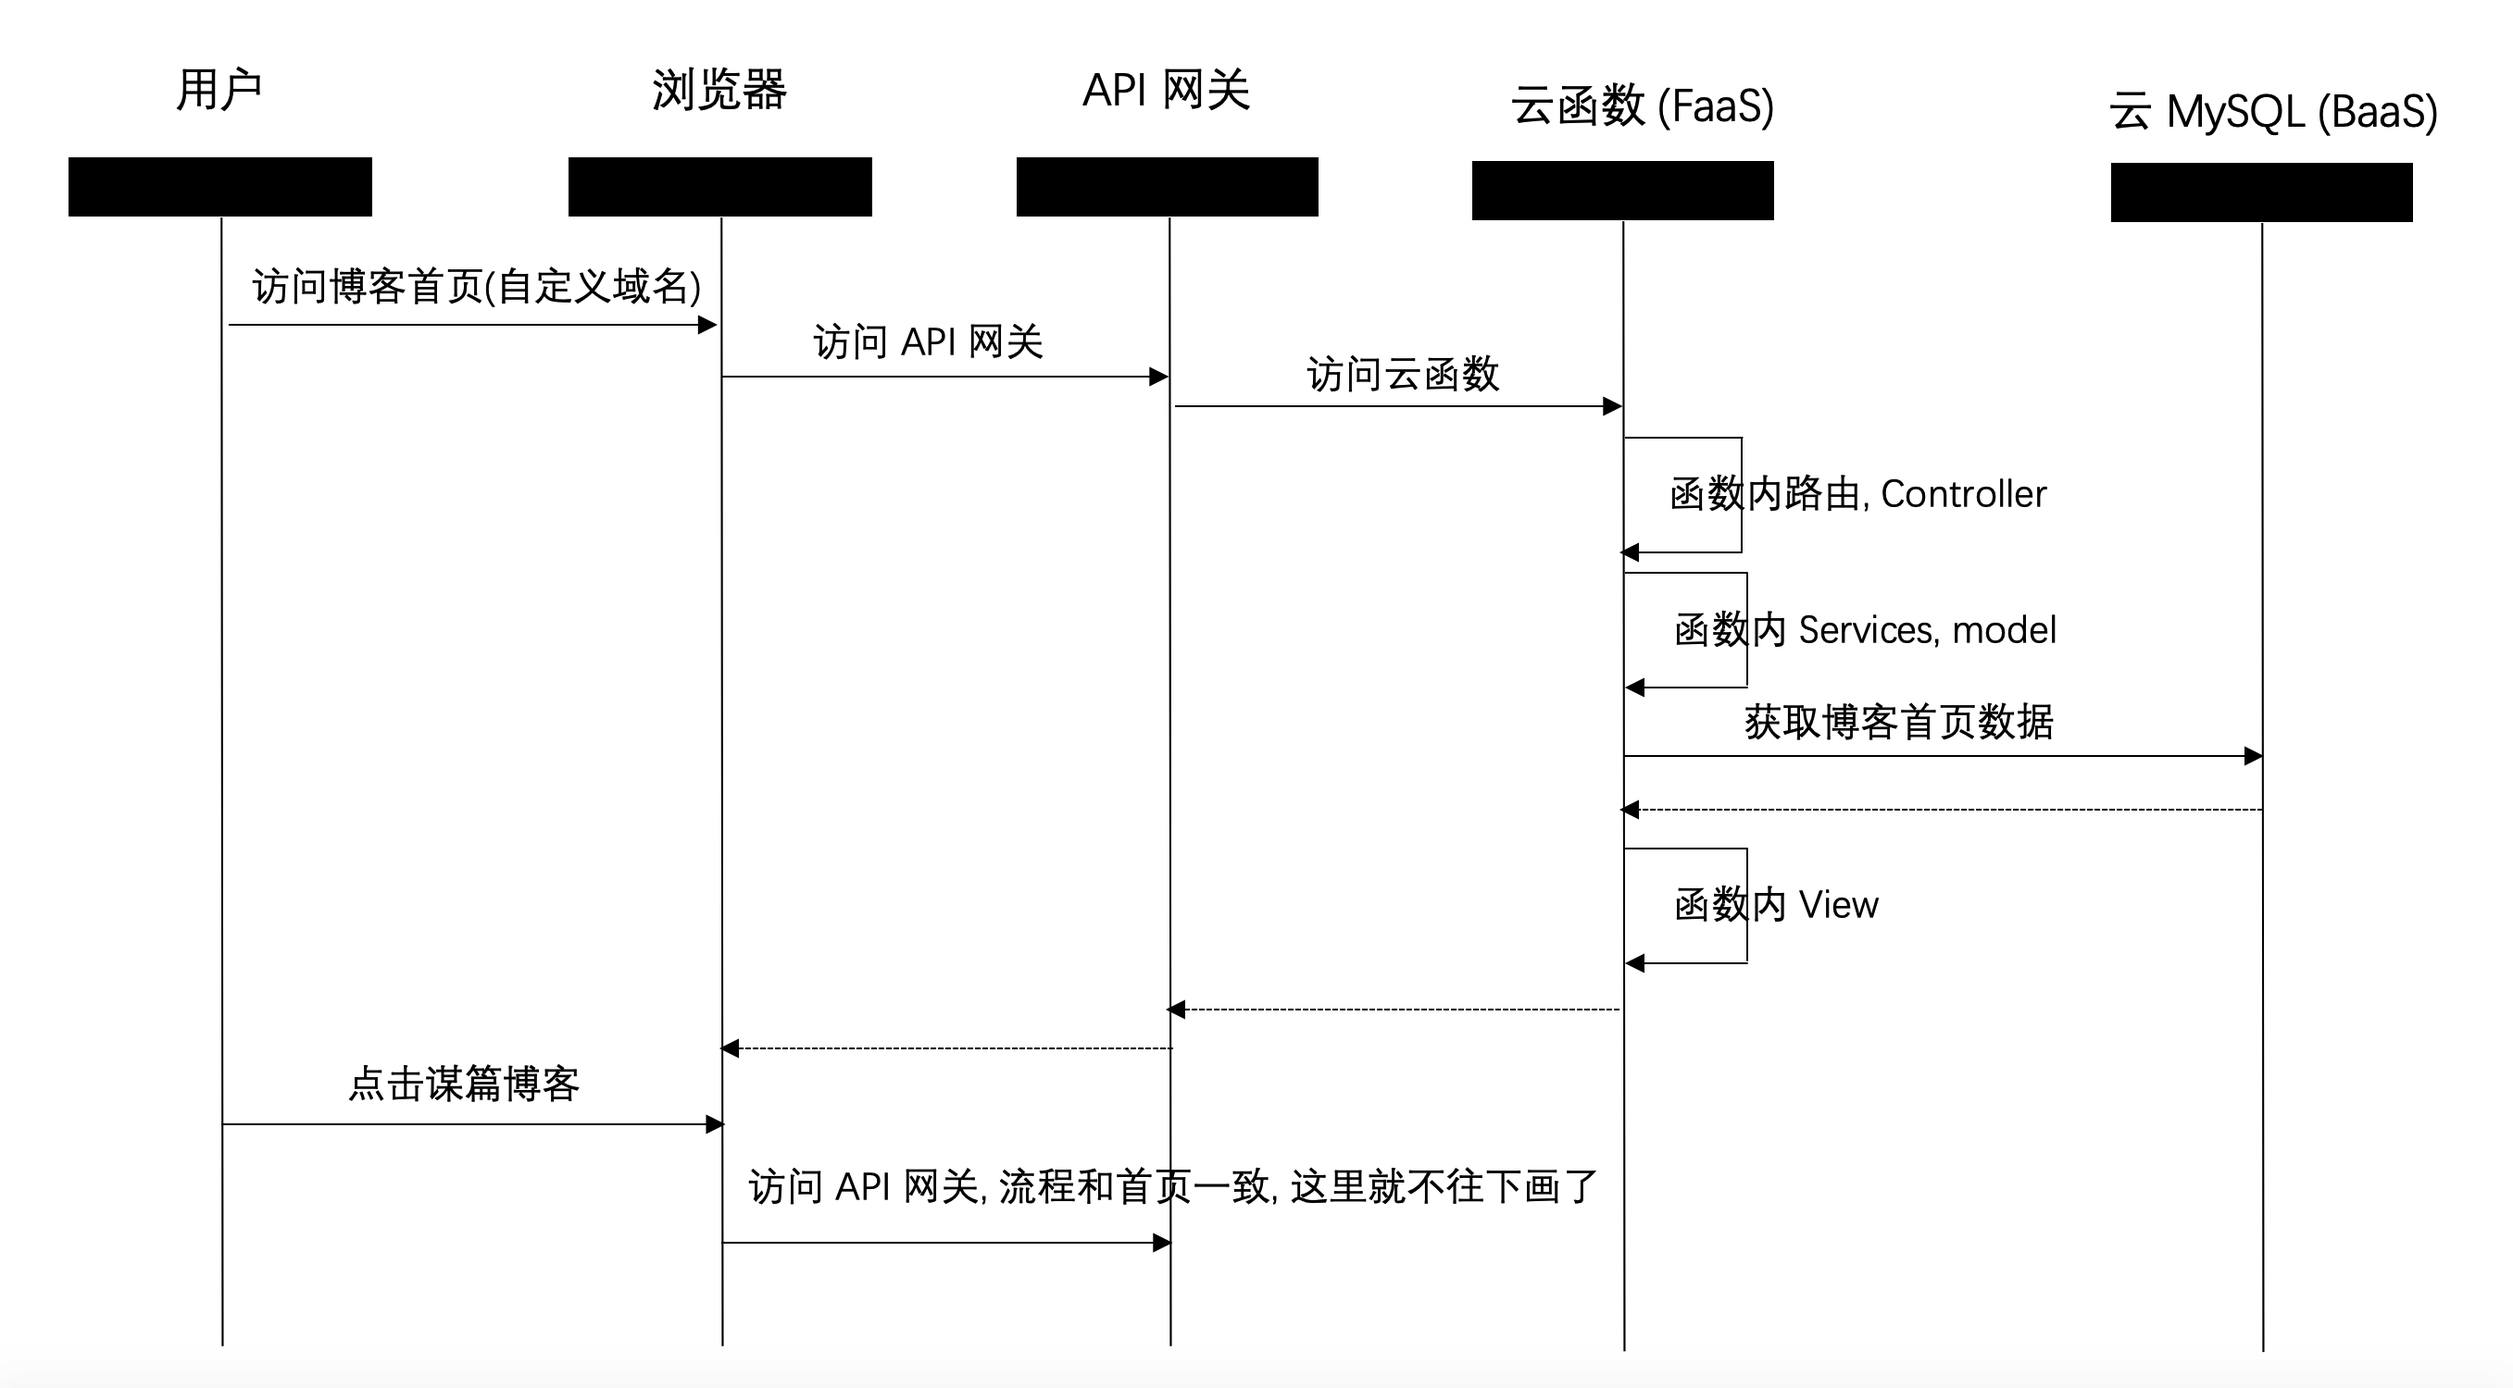
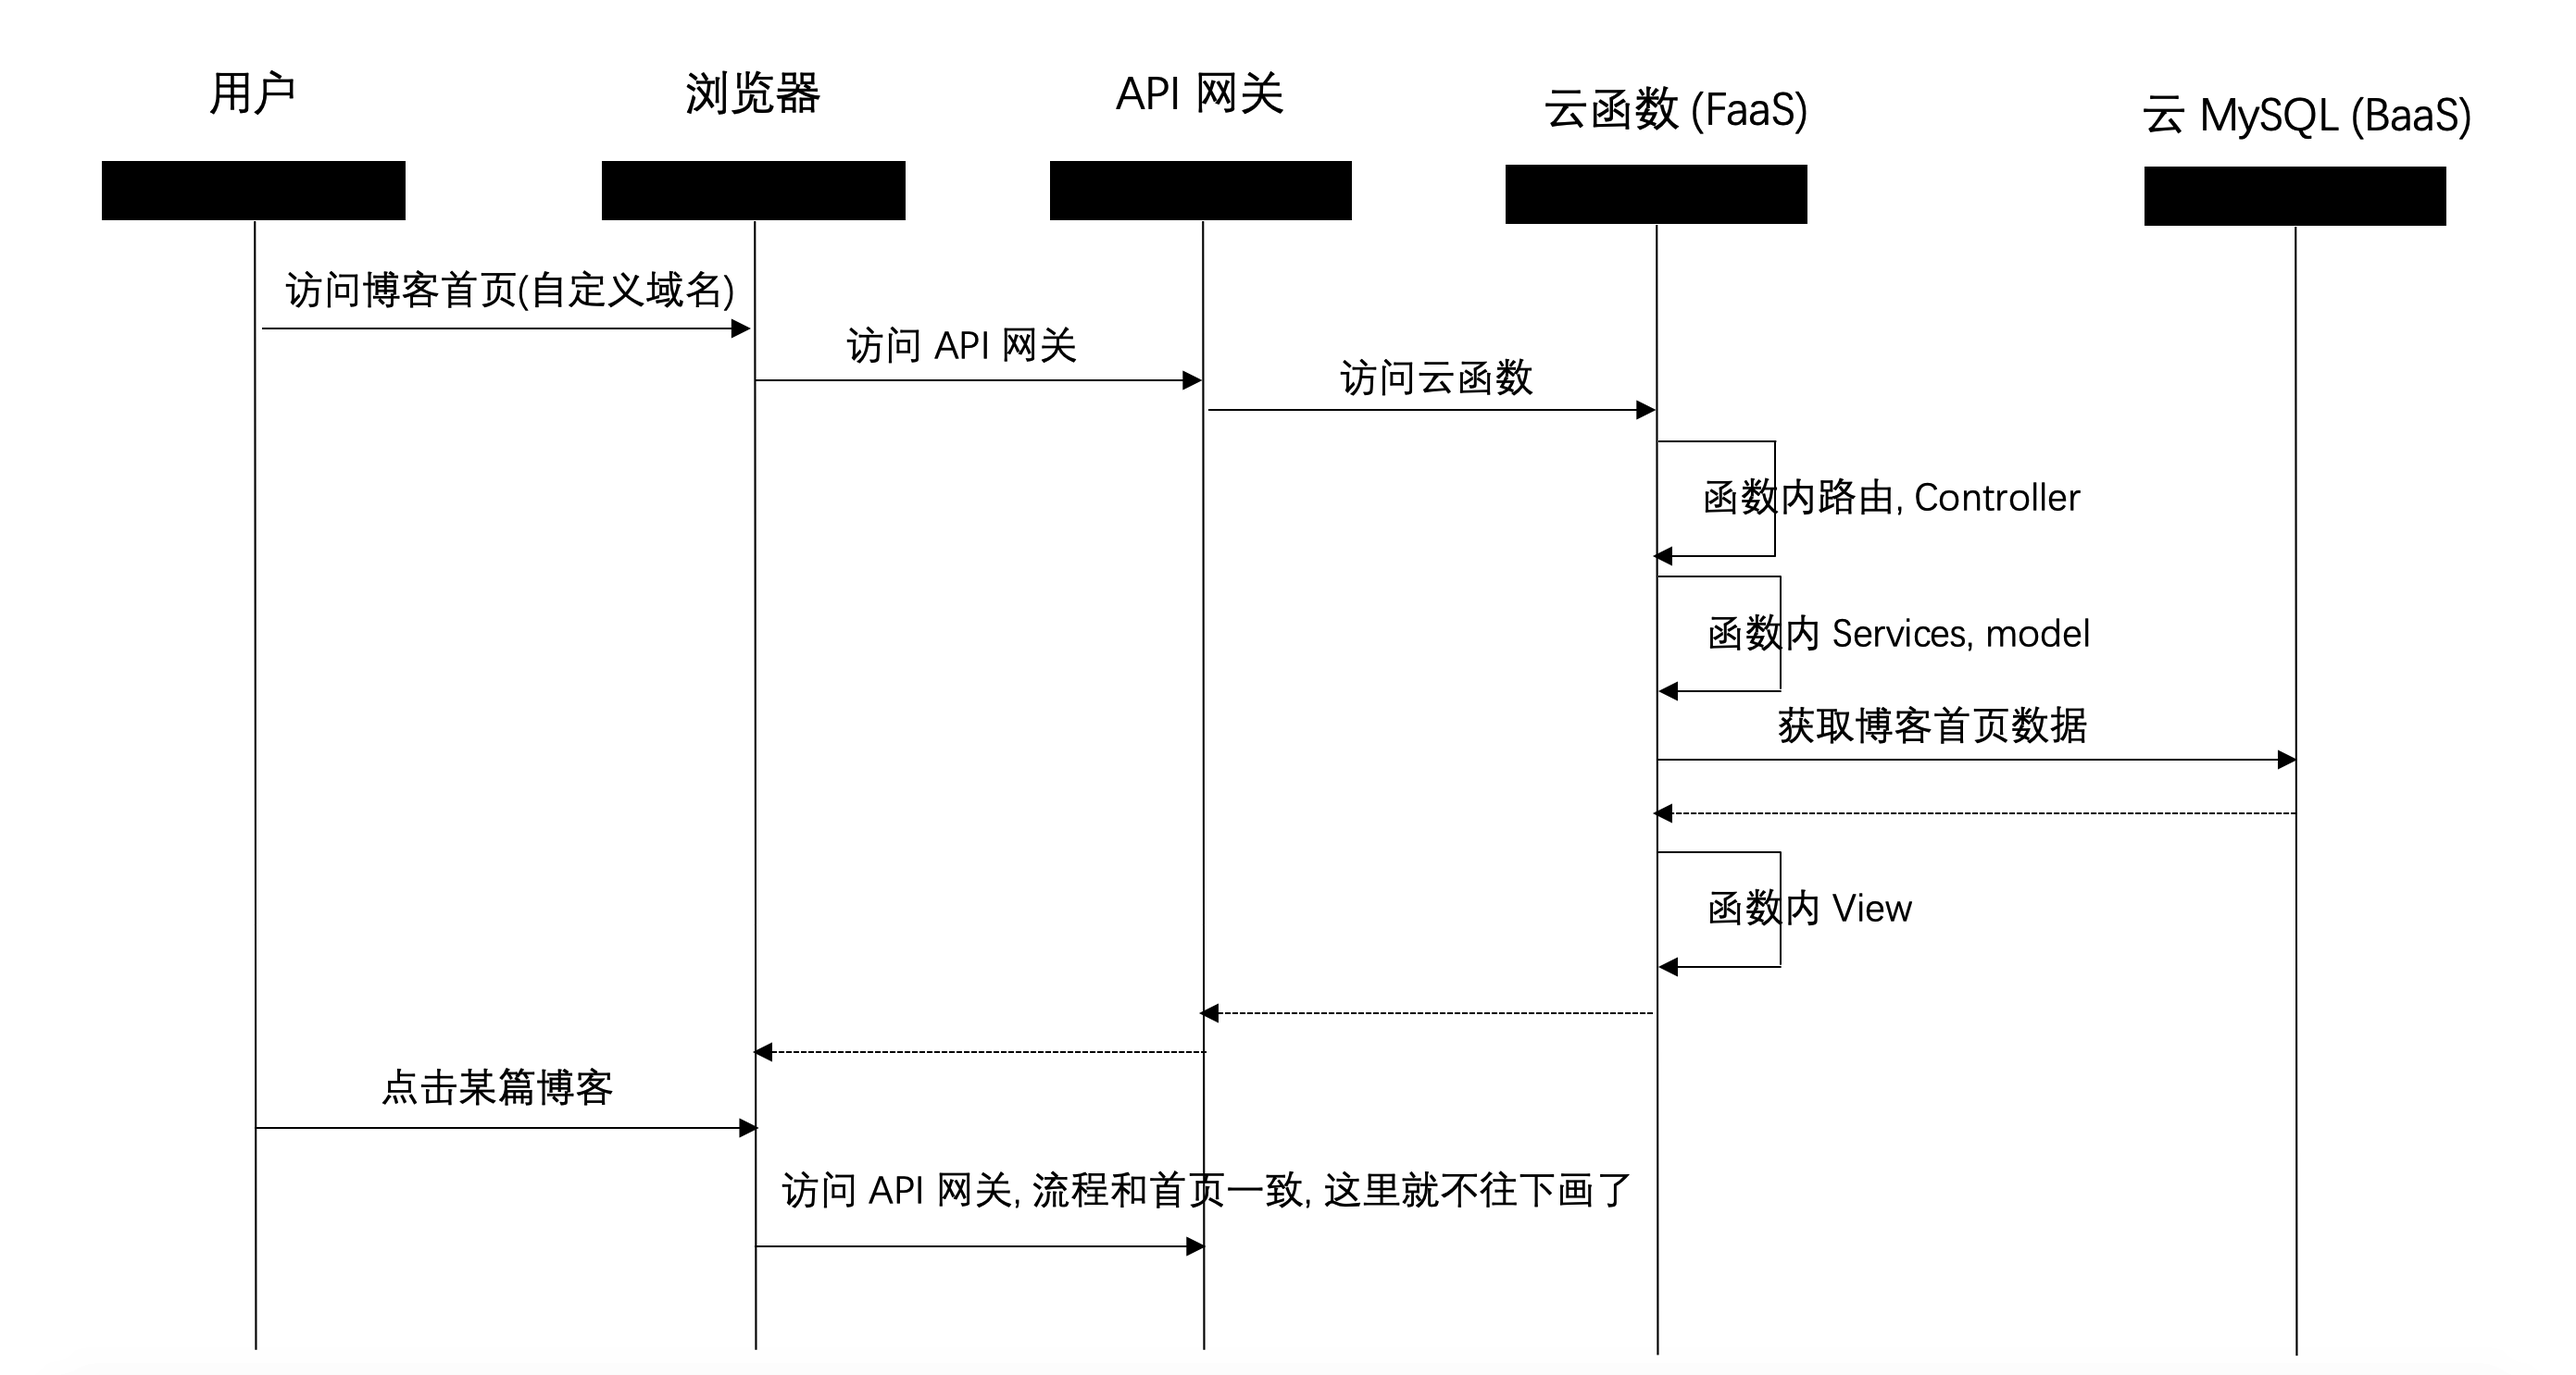
feat: add blog

diff --git a/markdown/serverless/万字长文之 Serverless 实战指南.md b/markdown/serverless/万字长文之 Serverless 实战指南.md
@@ -79,15 +79,15 @@ Serverless 让我们更专注于业务开发, 一些常见的服务端问题, Se
 
 [https://service-r3uca4yw-1253736472.gz.apigw.tencentcs.com/release/test](./https://service-r3uca4yw-1253736472.gz.apigw.tencentcs.com/release/test)
 
-如果你改完代码想发布, 只需要点一下保存, 就可以发布了~
-
 以上就是我们对云函数的初步认识, 接下来我们一步步深入, 带你打造一个简易博客系统
 
 ### Tencent Serverless Toolkit for VS Code
 
 首先, 我们需要一个本地开发环境, 虽然线上编辑器的体验与 vscode 已经比较相近了, 但毕竟本地代码编辑经过我们配置, 还是更好用的. 那我们在本地修改了代码, 怎么发布云函数呢?
 
-以 VSCode 为例, 我们需要安装 "Tencent Serverless Toolkit for VS Code", 我们可以在 VSCode 的插件里搜索安装, 插件首页的安装说明很清楚的.如图：
+以 VSCode 为例, 我们需要安装 "Tencent Serverless Toolkit for VS Code", 可以在 VSCode 的插件里搜索安装, 插件首页会有详细地安装说明, 这里就不再赘述.
+
+插件界面如图:
 
 ![scf vscode 插件](./serverless-vscode-plugin.png)
 
@@ -99,7 +99,7 @@ Serverless 让我们更专注于业务开发, 一些常见的服务端问题, Se
 * 使用模拟的 COS、CMQ、CKafka、API 网关等触发器事件来触发函数运行。
 * 上传函数代码到云端，更新函数配置。
 
-通常前端的代码, 需要打包, 执行 `npm install`, `npm run build` 等, 云端函数没有提供这个环境, 我们可以在本地打包后, 通过这个插件发布代码. 当然, 我们还可以通过持续集成工具, 运行 cli 来发布, 这个暂时就不展开说了.
+通常前端的代码, 需要打包, 执行 `npm install`, `npm run build` 等, 云端函数没有提供这个环境, 我们可以在本地打包后, 通过这个插件发布代码. 当然, 我们还可以通过持续集成工具, 运行 cli 来发布, 这个就不展开说了.
 
 ### 数据库选择和设计
 
@@ -113,7 +113,7 @@ Serverless 让我们更专注于业务开发, 一些常见的服务端问题, Se
 
 激活云 MySQL 后, 这里可以看到内网 ip 和端口, 云函数可以通过这个 ip 和端口访问到 MySQL:
 
-![腾讯云 MySQL 入口](./mysql-ip.png)
+![腾讯云 MySQL](./mysql-ip.png)
 
 ### 数据库设计
 
@@ -260,7 +260,7 @@ module.exports = router;
 
 #### Controller
 
-Controller 可以很清晰地反应一个请求的处理过程, 一些实现细节应该封装起来, 放在 Service 中, 这点在流程复杂的项目中特别重要. 
+Controller 应该清晰地反应一个请求的处理过程, 一些实现细节要封装起来, 放在 Service 中, 这点在流程复杂的项目中特别重要. 
 
 我们两个页面的 Controller 就很简单:
 
@@ -295,7 +295,7 @@ exports.postController = async (ctx) => {
 
 1. 获取数据
 2. 数据 + 模板生成 html
-3. 返回 html 的流程. 
+3. 返回 html 
 
 我们会在接下来的 Services 里讲清楚这三个步骤的具体实现.
 
@@ -316,7 +316,7 @@ exports.getBlogList = async () => {
 }
 
 exports.getBlogById = async (blogId) => {
-    await Blog.sync({}); // 如果表不存在, 则自动创建, sequelize 的一个特性
+    await Blog.sync({});
     return await Blog.findOne({
         where: {
             id: blogId,
@@ -430,7 +430,7 @@ exports.htmlResponse = (ctx, html) => {
 
 #### Model
 
-上边的 data service, 通过 Blog Model 可以轻易的获取数据, 那 Blog 的实现是怎样的呢? 我们来看一下: 
+上边的 data service, 通过 Blog Model 可以轻易的获取数据, 那 Blog Model 的实现是怎样的呢? 我们来看一下: 
 
 /model/index.js
 ```javascript
@@ -481,7 +481,7 @@ module.exports = {
 }
 ```
 
-blog 是我们数据库名称, root 是登录的账户, 密码存放在环境变量中, 通过    `process.env.password` 获取, 也就是前边我们在云函数创建时, 填写的环境变量.
+blog 是数据库的名称, root 是登录的账户, 密码存放在环境变量中, 通过    `process.env.password` 获取, 也就是前边我们在云函数创建时, 填写的环境变量.
 
 #### View
 
@@ -541,3 +541,4 @@ blog 是我们数据库名称, root 是登录的账户, 密码存放在环境变
 + 欢迎关注「前端Q」,认真学前端，做个有专业的技术人...
 
 ![GitHub](https://raw.githubusercontent.com/LuckyWinty/blog/master/images/qrcode/%E4%BA%8C%E7%BB%B4%E7%A0%81%E7%BE%8E%E5%8C%96%202.png)
+
